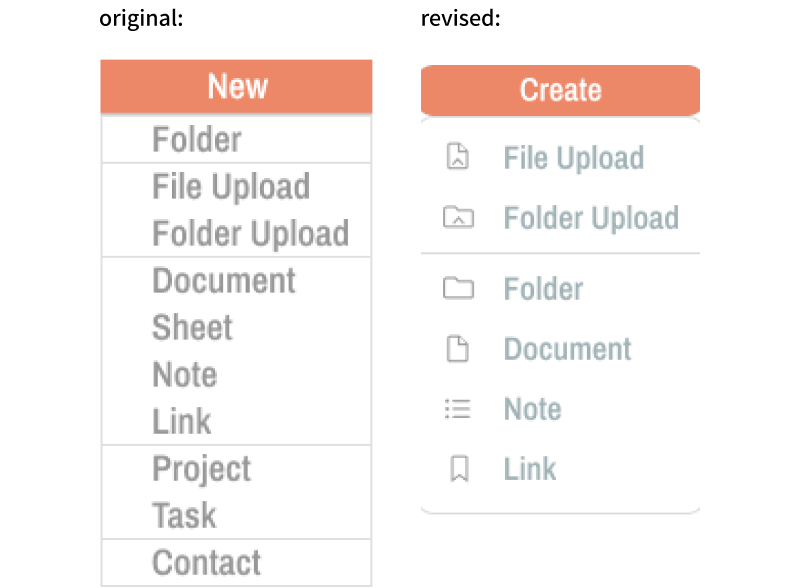
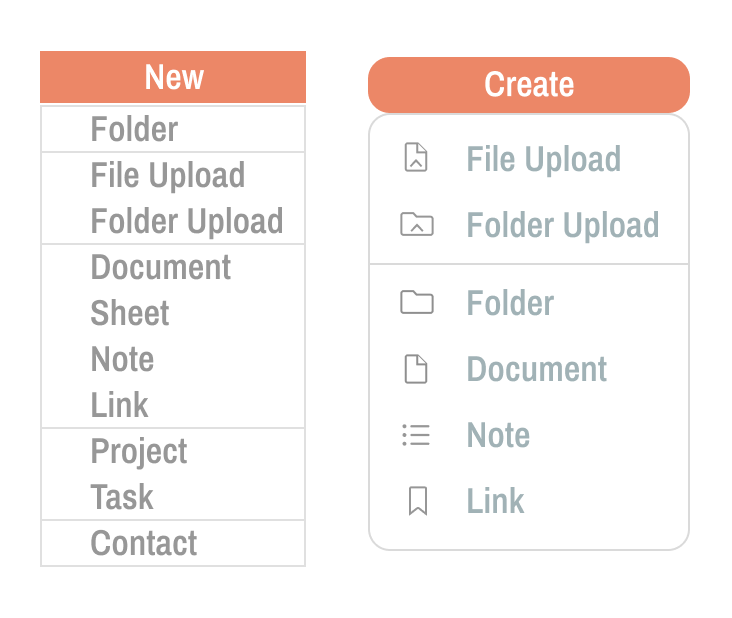
fuzzy images

diff --git a/gather.html b/gather.html
@@ -370,8 +370,8 @@
                                       <p>Progression of mobile bottom sheet (and icons/folders.)
 
                                       <img src="images/mockups2_change1.png" class=img_c>
-                                        <p>Originally, I was trying to offer too many options on my bottom sheet. Users had trouble
-                                        finding what they were looking for. I was also not leaving enough room around the different
+                                        <p>Originally, I was trying to offer too many options on my bottom sheet. I wanted maximum functionality. But, tests showed that users had trouble
+                                        finding what they were looking for. I had too many options and I was also not leaving enough room around the different
                                          options.
                                       <p>I decided to stick strictly to the “Miller’s Law” recommendation of +/- 5 items at a time and
                                         reduce some immediate functionality, in favor of clarity. I also created a larger sheet for more “breathing room.”
